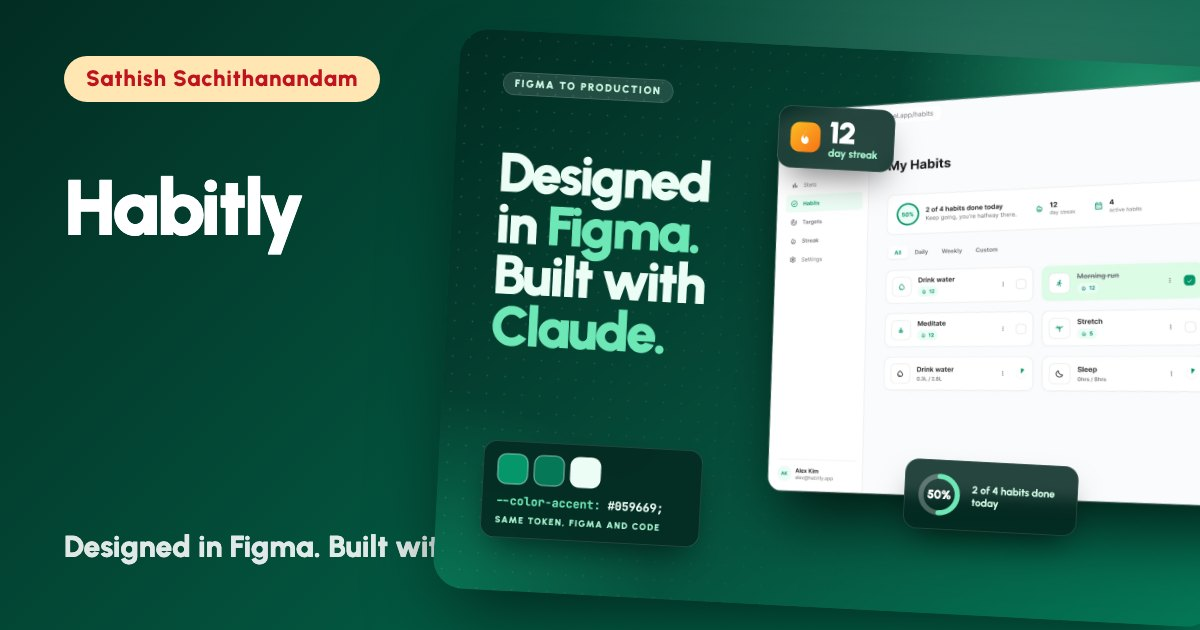
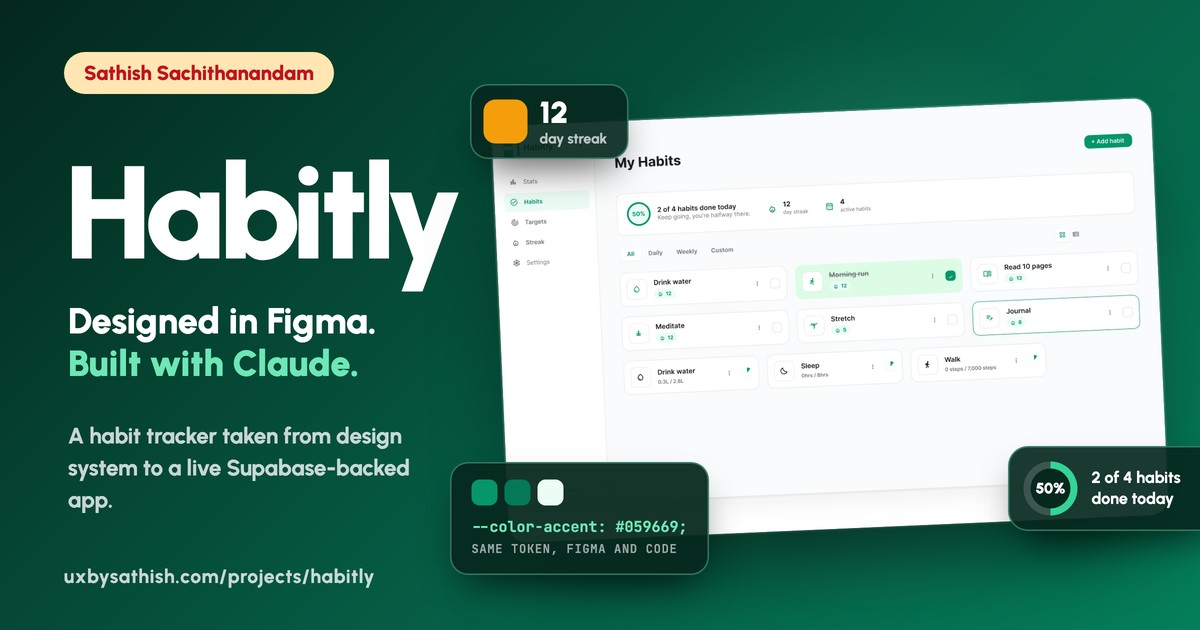
Unique, rich share images for /projects and every project page
Replaced the clipped og images (cover pasted inside a cover) with five
full-bleed designs: Habitly, Zepto, RailOne, Vaulta and a new Projects card
fan. /projects no longer reuses Habitly's image. Added og:image width, height
and alt, twitter alt, and a ?v=2 cache-buster so social platforms re-fetch.

diff --git a/projects/habitly.html b/projects/habitly.html
@@ -13,12 +13,16 @@
   <meta property="og:title" content="Habitly Case Study: Figma to Production | Sathish S" />
   <meta property="og:description" content="How I designed Habitly in Figma and built it with Claude: design system, tokens, screens, a Supabase backend and a Figma-to-code workflow." />
   <meta property="og:url" content="https://www.uxbysathish.com/projects/habitly" />
-  <meta property="og:image" content="https://www.uxbysathish.com/assets/case-studies/habitly/og.jpg" />
+  <meta property="og:image" content="https://www.uxbysathish.com/assets/case-studies/habitly/og.jpg?v=2" />
+  <meta property="og:image:width" content="1200" />
+  <meta property="og:image:height" content="630" />
+  <meta property="og:image:alt" content="Habitly: Figma to Production by Sathish Sachithanandam" />
   <meta property="og:site_name" content="Sathish Sachithanandam, Portfolio" />
   <meta name="twitter:card" content="summary_large_image" />
   <meta name="twitter:title" content="Habitly Case Study: Figma to Production | Sathish S" />
   <meta name="twitter:description" content="How I designed Habitly in Figma and built it with Claude: design system, tokens, screens, a Supabase backend and a Figma-to-code workflow." />
-  <meta name="twitter:image" content="https://www.uxbysathish.com/assets/case-studies/habitly/og.jpg" />
+  <meta name="twitter:image" content="https://www.uxbysathish.com/assets/case-studies/habitly/og.jpg?v=2" />
+  <meta name="twitter:image:alt" content="Habitly: Figma to Production by Sathish Sachithanandam" />
   <meta name="twitter:site" content="@im_super18" />
   <link rel="icon" href="/favicon.ico" sizes="any" />
   <link rel="icon" type="image/png" sizes="512x512" href="/assets/images/favicon-avatar.png" />
@@ -30,7 +34,7 @@
   <link rel="stylesheet" href="/case-study.css?v=6" />
   <link href="https://fonts.googleapis.com/css2?family=Inter:wght@500;700&display=swap" rel="stylesheet" />
   <style>.cs-title.long{font-size:clamp(32px,3.7vw,56px);max-width:19em}</style>
-  <script type="application/ld+json">[{"@context": "https://schema.org", "@type": "CreativeWork", "name": "Habitly Case Study: Figma to Production | Sathish S", "headline": "A personalized habit tracker, designed in Figma by hand, then developed into a real app using Claude.", "description": "How I designed Habitly in Figma and built it with Claude: design system, tokens, screens, a Supabase backend and a Figma-to-code workflow.", "url": "https://www.uxbysathish.com/projects/habitly", "image": "https://www.uxbysathish.com/assets/case-studies/habitly/og.jpg", "inLanguage": "en", "dateCreated": "2026", "author": {"@type": "Person", "name": "Sathish Sachithanandam", "url": "https://www.uxbysathish.com"}, "isPartOf": {"@type": "WebSite", "name": "Sathish Sachithanandam Portfolio", "url": "https://www.uxbysathish.com"}}, {"@context": "https://schema.org", "@type": "BreadcrumbList", "itemListElement": [{"@type": "ListItem", "position": 1, "name": "Home", "item": "https://www.uxbysathish.com/"}, {"@type": "ListItem", "position": 2, "name": "Projects", "item": "https://www.uxbysathish.com/projects"}, {"@type": "ListItem", "position": 3, "name": "Habitly: Figma to Production", "item": "https://www.uxbysathish.com/projects/habitly"}]}]</script>
+  <script type="application/ld+json">[{"@context": "https://schema.org", "@type": "CreativeWork", "name": "Habitly Case Study: Figma to Production | Sathish S", "headline": "A personalized habit tracker, designed in Figma by hand, then developed into a real app using Claude.", "description": "How I designed Habitly in Figma and built it with Claude: design system, tokens, screens, a Supabase backend and a Figma-to-code workflow.", "url": "https://www.uxbysathish.com/projects/habitly", "image": "https://www.uxbysathish.com/assets/case-studies/habitly/og.jpg?v=2", "inLanguage": "en", "dateCreated": "2026", "author": {"@type": "Person", "name": "Sathish Sachithanandam", "url": "https://www.uxbysathish.com"}, "isPartOf": {"@type": "WebSite", "name": "Sathish Sachithanandam Portfolio", "url": "https://www.uxbysathish.com"}}, {"@context": "https://schema.org", "@type": "BreadcrumbList", "itemListElement": [{"@type": "ListItem", "position": 1, "name": "Home", "item": "https://www.uxbysathish.com/"}, {"@type": "ListItem", "position": 2, "name": "Projects", "item": "https://www.uxbysathish.com/projects"}, {"@type": "ListItem", "position": 3, "name": "Habitly: Figma to Production", "item": "https://www.uxbysathish.com/projects/habitly"}]}]</script>
   <script type="text/javascript">
       (function(c,l,a,r,i,t,y){
           c[a]=c[a]||function(){(c[a].q=c[a].q||[]).push(arguments)};

diff --git a/projects/railone.html b/projects/railone.html
@@ -13,12 +13,16 @@
   <meta property="og:title" content="RailOne E-Ticket UX Audit | Case Study | Sathish S" />
   <meta property="og:description" content="A UX audit of RailOne&#x27;s device-locked e-tickets and a redesign that lets you book a ticket for another passenger. A Chennai commuter&#x27;s story." />
   <meta property="og:url" content="https://www.uxbysathish.com/projects/railone" />
-  <meta property="og:image" content="https://www.uxbysathish.com/assets/case-studies/railone/og.jpg" />
+  <meta property="og:image" content="https://www.uxbysathish.com/assets/case-studies/railone/og.jpg?v=2" />
+  <meta property="og:image:width" content="1200" />
+  <meta property="og:image:height" content="630" />
+  <meta property="og:image:alt" content="RailOne E-Ticket UX Audit by Sathish Sachithanandam" />
   <meta property="og:site_name" content="Sathish Sachithanandam, Portfolio" />
   <meta name="twitter:card" content="summary_large_image" />
   <meta name="twitter:title" content="RailOne E-Ticket UX Audit | Case Study | Sathish S" />
   <meta name="twitter:description" content="A UX audit of RailOne&#x27;s device-locked e-tickets and a redesign that lets you book a ticket for another passenger. A Chennai commuter&#x27;s story." />
-  <meta name="twitter:image" content="https://www.uxbysathish.com/assets/case-studies/railone/og.jpg" />
+  <meta name="twitter:image" content="https://www.uxbysathish.com/assets/case-studies/railone/og.jpg?v=2" />
+  <meta name="twitter:image:alt" content="RailOne E-Ticket UX Audit by Sathish Sachithanandam" />
   <meta name="twitter:site" content="@im_super18" />
   <link rel="icon" href="/favicon.ico" sizes="any" />
   <link rel="icon" type="image/png" sizes="512x512" href="/assets/images/favicon-avatar.png" />
@@ -29,7 +33,7 @@
   <link rel="stylesheet" href="/style.css?v=115" />
   <link rel="stylesheet" href="/case-study.css?v=6" />
   
-  <script type="application/ld+json">[{"@context": "https://schema.org", "@type": "CreativeWork", "name": "RailOne E-Ticket UX Audit | Case Study | Sathish S", "headline": "RailOne's e-ticket only works on the one phone that booked it.", "description": "A UX audit of RailOne's device-locked e-tickets and a redesign that lets you book a ticket for another passenger. A Chennai commuter's story.", "url": "https://www.uxbysathish.com/projects/railone", "image": "https://www.uxbysathish.com/assets/case-studies/railone/og.jpg", "inLanguage": "en", "dateCreated": "2026", "author": {"@type": "Person", "name": "Sathish Sachithanandam", "url": "https://www.uxbysathish.com"}, "isPartOf": {"@type": "WebSite", "name": "Sathish Sachithanandam Portfolio", "url": "https://www.uxbysathish.com"}}, {"@context": "https://schema.org", "@type": "BreadcrumbList", "itemListElement": [{"@type": "ListItem", "position": 1, "name": "Home", "item": "https://www.uxbysathish.com/"}, {"@type": "ListItem", "position": 2, "name": "Projects", "item": "https://www.uxbysathish.com/projects"}, {"@type": "ListItem", "position": 3, "name": "RailOne E-Ticket UX Audit", "item": "https://www.uxbysathish.com/projects/railone"}]}]</script>
+  <script type="application/ld+json">[{"@context": "https://schema.org", "@type": "CreativeWork", "name": "RailOne E-Ticket UX Audit | Case Study | Sathish S", "headline": "RailOne's e-ticket only works on the one phone that booked it.", "description": "A UX audit of RailOne's device-locked e-tickets and a redesign that lets you book a ticket for another passenger. A Chennai commuter's story.", "url": "https://www.uxbysathish.com/projects/railone", "image": "https://www.uxbysathish.com/assets/case-studies/railone/og.jpg?v=2", "inLanguage": "en", "dateCreated": "2026", "author": {"@type": "Person", "name": "Sathish Sachithanandam", "url": "https://www.uxbysathish.com"}, "isPartOf": {"@type": "WebSite", "name": "Sathish Sachithanandam Portfolio", "url": "https://www.uxbysathish.com"}}, {"@context": "https://schema.org", "@type": "BreadcrumbList", "itemListElement": [{"@type": "ListItem", "position": 1, "name": "Home", "item": "https://www.uxbysathish.com/"}, {"@type": "ListItem", "position": 2, "name": "Projects", "item": "https://www.uxbysathish.com/projects"}, {"@type": "ListItem", "position": 3, "name": "RailOne E-Ticket UX Audit", "item": "https://www.uxbysathish.com/projects/railone"}]}]</script>
   <script type="text/javascript">
       (function(c,l,a,r,i,t,y){
           c[a]=c[a]||function(){(c[a].q=c[a].q||[]).push(arguments)};

diff --git a/projects/zepto.html b/projects/zepto.html
@@ -13,12 +13,16 @@
   <meta property="og:title" content="Zepto Checkout UX Audit | Case Study | Sathish S" />
   <meta property="og:description" content="A UX audit of Zepto&#x27;s cash and UPI on delivery checkout, where the Place Order button fills itself and orders without a tap, and a small fix." />
   <meta property="og:url" content="https://www.uxbysathish.com/projects/zepto" />
-  <meta property="og:image" content="https://www.uxbysathish.com/assets/case-studies/zepto/og.jpg" />
+  <meta property="og:image" content="https://www.uxbysathish.com/assets/case-studies/zepto/og.jpg?v=2" />
+  <meta property="og:image:width" content="1200" />
+  <meta property="og:image:height" content="630" />
+  <meta property="og:image:alt" content="Zepto Checkout UX Audit by Sathish Sachithanandam" />
   <meta property="og:site_name" content="Sathish Sachithanandam, Portfolio" />
   <meta name="twitter:card" content="summary_large_image" />
   <meta name="twitter:title" content="Zepto Checkout UX Audit | Case Study | Sathish S" />
   <meta name="twitter:description" content="A UX audit of Zepto&#x27;s cash and UPI on delivery checkout, where the Place Order button fills itself and orders without a tap, and a small fix." />
-  <meta name="twitter:image" content="https://www.uxbysathish.com/assets/case-studies/zepto/og.jpg" />
+  <meta name="twitter:image" content="https://www.uxbysathish.com/assets/case-studies/zepto/og.jpg?v=2" />
+  <meta name="twitter:image:alt" content="Zepto Checkout UX Audit by Sathish Sachithanandam" />
   <meta name="twitter:site" content="@im_super18" />
   <link rel="icon" href="/favicon.ico" sizes="any" />
   <link rel="icon" type="image/png" sizes="512x512" href="/assets/images/favicon-avatar.png" />
@@ -29,7 +33,7 @@
   <link rel="stylesheet" href="/style.css?v=115" />
   <link rel="stylesheet" href="/case-study.css?v=6" />
   
-  <script type="application/ld+json">[{"@context": "https://schema.org", "@type": "CreativeWork", "name": "Zepto Checkout UX Audit | Case Study | Sathish S", "headline": "Zepto's \"Place Order\" button doesn't wait to place the order.", "description": "A UX audit of Zepto's cash and UPI on delivery checkout, where the Place Order button fills itself and orders without a tap, and a small fix.", "url": "https://www.uxbysathish.com/projects/zepto", "image": "https://www.uxbysathish.com/assets/case-studies/zepto/og.jpg", "inLanguage": "en", "dateCreated": "2026", "author": {"@type": "Person", "name": "Sathish Sachithanandam", "url": "https://www.uxbysathish.com"}, "isPartOf": {"@type": "WebSite", "name": "Sathish Sachithanandam Portfolio", "url": "https://www.uxbysathish.com"}}, {"@context": "https://schema.org", "@type": "BreadcrumbList", "itemListElement": [{"@type": "ListItem", "position": 1, "name": "Home", "item": "https://www.uxbysathish.com/"}, {"@type": "ListItem", "position": 2, "name": "Projects", "item": "https://www.uxbysathish.com/projects"}, {"@type": "ListItem", "position": 3, "name": "Zepto Checkout UX Audit", "item": "https://www.uxbysathish.com/projects/zepto"}]}]</script>
+  <script type="application/ld+json">[{"@context": "https://schema.org", "@type": "CreativeWork", "name": "Zepto Checkout UX Audit | Case Study | Sathish S", "headline": "Zepto's \"Place Order\" button doesn't wait to place the order.", "description": "A UX audit of Zepto's cash and UPI on delivery checkout, where the Place Order button fills itself and orders without a tap, and a small fix.", "url": "https://www.uxbysathish.com/projects/zepto", "image": "https://www.uxbysathish.com/assets/case-studies/zepto/og.jpg?v=2", "inLanguage": "en", "dateCreated": "2026", "author": {"@type": "Person", "name": "Sathish Sachithanandam", "url": "https://www.uxbysathish.com"}, "isPartOf": {"@type": "WebSite", "name": "Sathish Sachithanandam Portfolio", "url": "https://www.uxbysathish.com"}}, {"@context": "https://schema.org", "@type": "BreadcrumbList", "itemListElement": [{"@type": "ListItem", "position": 1, "name": "Home", "item": "https://www.uxbysathish.com/"}, {"@type": "ListItem", "position": 2, "name": "Projects", "item": "https://www.uxbysathish.com/projects"}, {"@type": "ListItem", "position": 3, "name": "Zepto Checkout UX Audit", "item": "https://www.uxbysathish.com/projects/zepto"}]}]</script>
   <script type="text/javascript">
       (function(c,l,a,r,i,t,y){
           c[a]=c[a]||function(){(c[a].q=c[a].q||[]).push(arguments)};

diff --git a/projects/vaulta.html b/projects/vaulta.html
@@ -13,12 +13,16 @@
   <meta property="og:title" content="Vaulta Brand Identity Case Study | Sathish S" />
   <meta property="og:description" content="Brand identity and guidelines for Vaulta Architecture: logo concept, color, typography and stationery, designed by Sathish Sachithanandam." />
   <meta property="og:url" content="https://www.uxbysathish.com/projects/vaulta" />
-  <meta property="og:image" content="https://www.uxbysathish.com/assets/case-studies/vaulta/og.jpg" />
+  <meta property="og:image" content="https://www.uxbysathish.com/assets/case-studies/vaulta/og.jpg?v=2" />
+  <meta property="og:image:width" content="1200" />
+  <meta property="og:image:height" content="630" />
+  <meta property="og:image:alt" content="Vaulta Brand Identity by Sathish Sachithanandam" />
   <meta property="og:site_name" content="Sathish Sachithanandam, Portfolio" />
   <meta name="twitter:card" content="summary_large_image" />
   <meta name="twitter:title" content="Vaulta Brand Identity Case Study | Sathish S" />
   <meta name="twitter:description" content="Brand identity and guidelines for Vaulta Architecture: logo concept, color, typography and stationery, designed by Sathish Sachithanandam." />
-  <meta name="twitter:image" content="https://www.uxbysathish.com/assets/case-studies/vaulta/og.jpg" />
+  <meta name="twitter:image" content="https://www.uxbysathish.com/assets/case-studies/vaulta/og.jpg?v=2" />
+  <meta name="twitter:image:alt" content="Vaulta Brand Identity by Sathish Sachithanandam" />
   <meta name="twitter:site" content="@im_super18" />
   <link rel="icon" href="/favicon.ico" sizes="any" />
   <link rel="icon" type="image/png" sizes="512x512" href="/assets/images/favicon-avatar.png" />
@@ -29,7 +33,7 @@
   <link rel="stylesheet" href="/style.css?v=115" />
   <link rel="stylesheet" href="/case-study.css?v=6" />
   
-  <script type="application/ld+json">[{"@context": "https://schema.org", "@type": "CreativeWork", "name": "Vaulta Brand Identity Case Study | Sathish S", "headline": "VAULTA: a brand identity that reads like a skyline.", "description": "Brand identity and guidelines for Vaulta Architecture: logo concept, color, typography and stationery, designed by Sathish Sachithanandam.", "url": "https://www.uxbysathish.com/projects/vaulta", "image": "https://www.uxbysathish.com/assets/case-studies/vaulta/og.jpg", "inLanguage": "en", "dateCreated": "2025", "author": {"@type": "Person", "name": "Sathish Sachithanandam", "url": "https://www.uxbysathish.com"}, "isPartOf": {"@type": "WebSite", "name": "Sathish Sachithanandam Portfolio", "url": "https://www.uxbysathish.com"}}, {"@context": "https://schema.org", "@type": "BreadcrumbList", "itemListElement": [{"@type": "ListItem", "position": 1, "name": "Home", "item": "https://www.uxbysathish.com/"}, {"@type": "ListItem", "position": 2, "name": "Projects", "item": "https://www.uxbysathish.com/projects"}, {"@type": "ListItem", "position": 3, "name": "Vaulta Brand Identity", "item": "https://www.uxbysathish.com/projects/vaulta"}]}]</script>
+  <script type="application/ld+json">[{"@context": "https://schema.org", "@type": "CreativeWork", "name": "Vaulta Brand Identity Case Study | Sathish S", "headline": "VAULTA: a brand identity that reads like a skyline.", "description": "Brand identity and guidelines for Vaulta Architecture: logo concept, color, typography and stationery, designed by Sathish Sachithanandam.", "url": "https://www.uxbysathish.com/projects/vaulta", "image": "https://www.uxbysathish.com/assets/case-studies/vaulta/og.jpg?v=2", "inLanguage": "en", "dateCreated": "2025", "author": {"@type": "Person", "name": "Sathish Sachithanandam", "url": "https://www.uxbysathish.com"}, "isPartOf": {"@type": "WebSite", "name": "Sathish Sachithanandam Portfolio", "url": "https://www.uxbysathish.com"}}, {"@context": "https://schema.org", "@type": "BreadcrumbList", "itemListElement": [{"@type": "ListItem", "position": 1, "name": "Home", "item": "https://www.uxbysathish.com/"}, {"@type": "ListItem", "position": 2, "name": "Projects", "item": "https://www.uxbysathish.com/projects"}, {"@type": "ListItem", "position": 3, "name": "Vaulta Brand Identity", "item": "https://www.uxbysathish.com/projects/vaulta"}]}]</script>
   <script type="text/javascript">
       (function(c,l,a,r,i,t,y){
           c[a]=c[a]||function(){(c[a].q=c[a].q||[]).push(arguments)};

diff --git a/scripts/build-portfolio.js b/scripts/build-portfolio.js
@@ -113,7 +113,7 @@ const chips = ['<button class="pf-chip" type="button" data-filter="all" aria-pre
 const title = 'Portfolio: UX/UI Case Studies & Brand Work | Sathish S';
 const desc = `All work by Sathish Sachithanandam, UX/UI designer in Chennai: ${internal.length} on-site case studies plus UI, branding and graphic design projects, newest first.`;
 const url = `${SITE}/projects`;
-const og = `${SITE}/assets/case-studies/${internal[0] ? internal[0].slug : 'habitly'}/og.jpg`;
+const og = `${SITE}/assets/images/og-projects.jpg?v=2`;
 const ld = [
   { '@context': 'https://schema.org', '@type': 'CollectionPage', name: title, description: desc, url, inLanguage: 'en',
     author: { '@type': 'Person', name: 'Sathish Sachithanandam', url: SITE },
@@ -141,11 +141,15 @@ const portfolio = `<!DOCTYPE html>
   <meta property="og:description" content="${attr(desc)}" />
   <meta property="og:url" content="${url}" />
   <meta property="og:image" content="${og}" />
+  <meta property="og:image:width" content="1200" />
+  <meta property="og:image:height" content="630" />
+  <meta property="og:image:alt" content="Projects by Sathish Sachithanandam: Habitly, Zepto, RailOne and Vaulta" />
   <meta property="og:site_name" content="Sathish Sachithanandam, Portfolio" />
   <meta name="twitter:card" content="summary_large_image" />
   <meta name="twitter:title" content="${attr(title)}" />
   <meta name="twitter:description" content="${attr(desc)}" />
   <meta name="twitter:image" content="${og}" />
+  <meta name="twitter:image:alt" content="Projects by Sathish Sachithanandam: Habitly, Zepto, RailOne and Vaulta" />
   <meta name="twitter:site" content="@im_super18" />
   <link rel="icon" href="/favicon.ico" sizes="any" />
   <link rel="icon" type="image/png" sizes="512x512" href="/assets/images/favicon-avatar.png" />

diff --git a/projects.html b/projects.html
@@ -13,12 +13,16 @@
   <meta property="og:title" content="Portfolio: UX/UI Case Studies &amp; Brand Work | Sathish S" />
   <meta property="og:description" content="All work by Sathish Sachithanandam, UX/UI designer in Chennai: 4 on-site case studies plus UI, branding and graphic design projects, newest first." />
   <meta property="og:url" content="https://www.uxbysathish.com/projects" />
-  <meta property="og:image" content="https://www.uxbysathish.com/assets/case-studies/habitly/og.jpg" />
+  <meta property="og:image" content="https://www.uxbysathish.com/assets/images/og-projects.jpg?v=2" />
+  <meta property="og:image:width" content="1200" />
+  <meta property="og:image:height" content="630" />
+  <meta property="og:image:alt" content="Projects by Sathish Sachithanandam: Habitly, Zepto, RailOne and Vaulta" />
   <meta property="og:site_name" content="Sathish Sachithanandam, Portfolio" />
   <meta name="twitter:card" content="summary_large_image" />
   <meta name="twitter:title" content="Portfolio: UX/UI Case Studies &amp; Brand Work | Sathish S" />
   <meta name="twitter:description" content="All work by Sathish Sachithanandam, UX/UI designer in Chennai: 4 on-site case studies plus UI, branding and graphic design projects, newest first." />
-  <meta name="twitter:image" content="https://www.uxbysathish.com/assets/case-studies/habitly/og.jpg" />
+  <meta name="twitter:image" content="https://www.uxbysathish.com/assets/images/og-projects.jpg?v=2" />
+  <meta name="twitter:image:alt" content="Projects by Sathish Sachithanandam: Habitly, Zepto, RailOne and Vaulta" />
   <meta name="twitter:site" content="@im_super18" />
   <link rel="icon" href="/favicon.ico" sizes="any" />
   <link rel="icon" type="image/png" sizes="512x512" href="/assets/images/favicon-avatar.png" />

diff --git a/CHAT-MEMORY.md b/CHAT-MEMORY.md
@@ -152,3 +152,8 @@ For Behance case study: https://www.behance.net/gallery/252079183/From-Figma-To-
 - Steps: add the card image to `assets/images/`, (for an on-site case study also add `projects/<slug>.html`), insert the entry at the TOP of `projects` in `data/projects.json` with `"href": "/projects/<slug>"`, then run `node scripts/build-portfolio.js`, then `node scripts/check-links.js`, then commit and push.
 - The script regenerates: homepage grid + ItemList JSON-LD (between the marker comments in `index.html`), `projects.html`, `sitemap.xml`, and the "Next case study" link in every `projects/*.html`. Do not hand-edit those generated parts.
 - Behance-only projects: set `"external": true` and `href` to the Behance URL.
+
+## Share previews (Open Graph images)
+- Every page has its own unique, project-specific 1200x630 JPG (under 300 KB): `assets/case-studies/<slug>/og.jpg` for each project and `assets/images/og-projects.jpg` for /projects. Homepage uses `assets/images/og-preview.png`.
+- Designed full-bleed (title, key product visuals, stickers), nothing clipped. For a new project, make a new one in the same style, and bump the `?v=` on the og:image URL in the generators so WhatsApp, LinkedIn and X re-fetch it.
+- Test with the LinkedIn Post Inspector, Facebook Sharing Debugger and opengraph.xyz after deploying.
